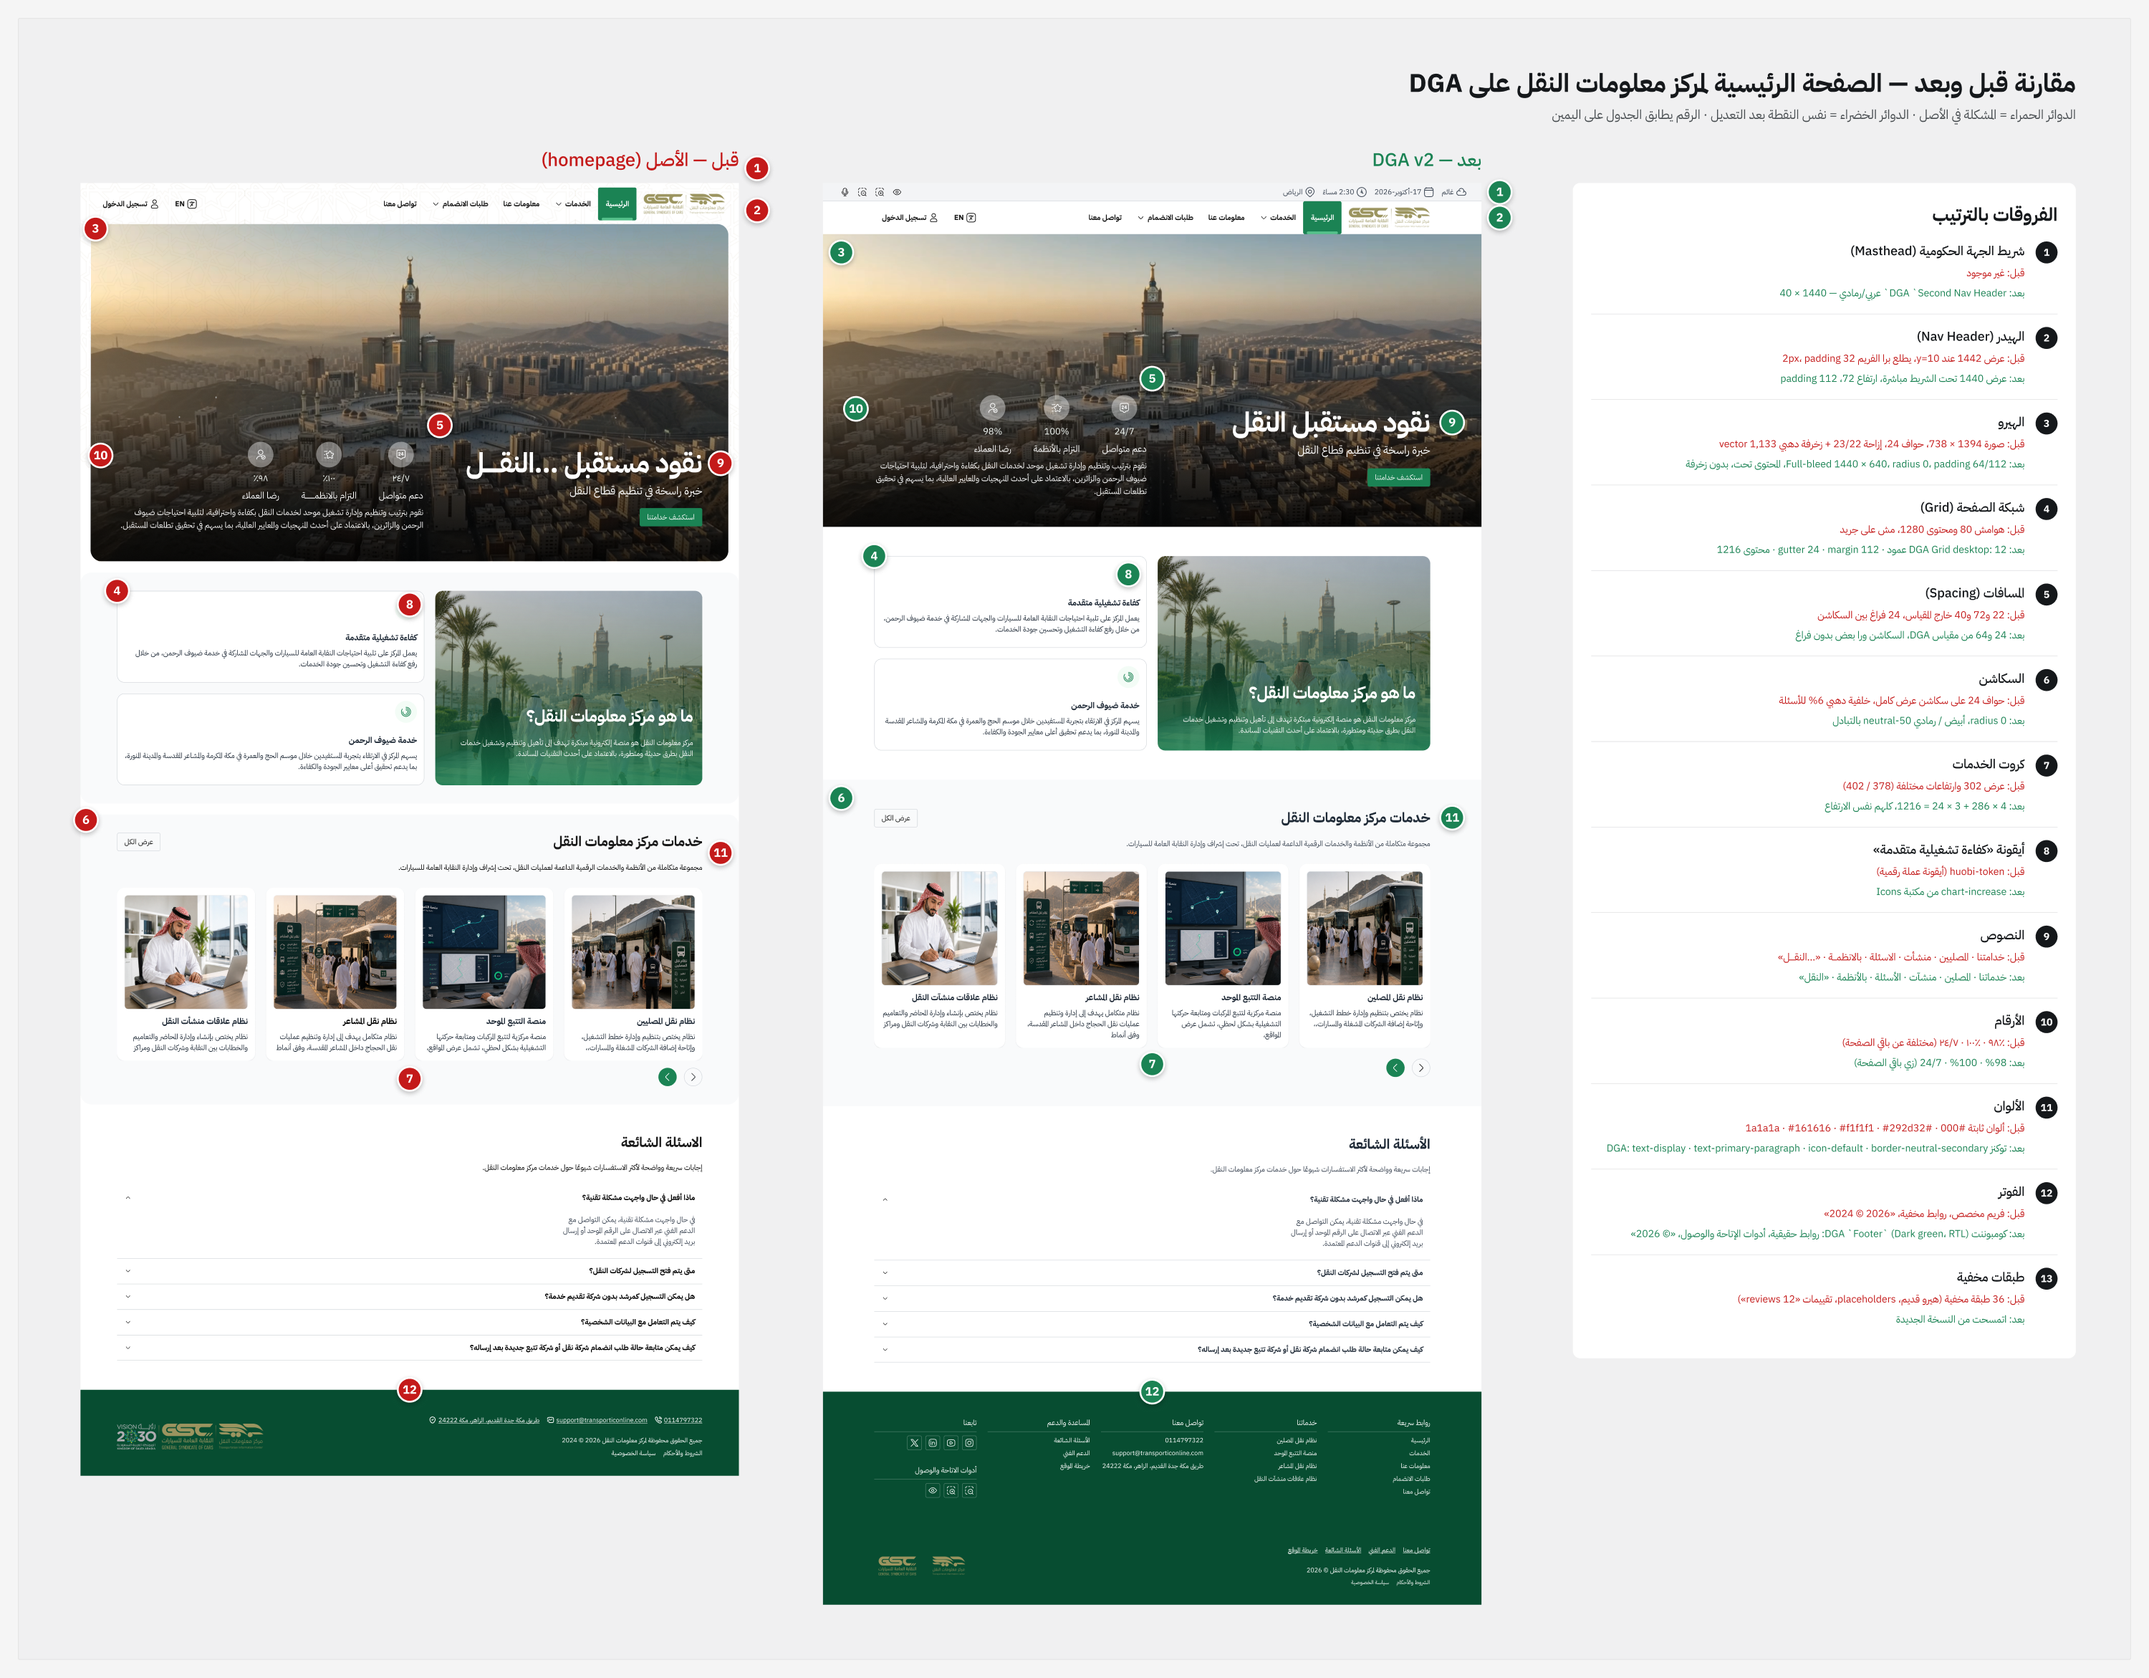
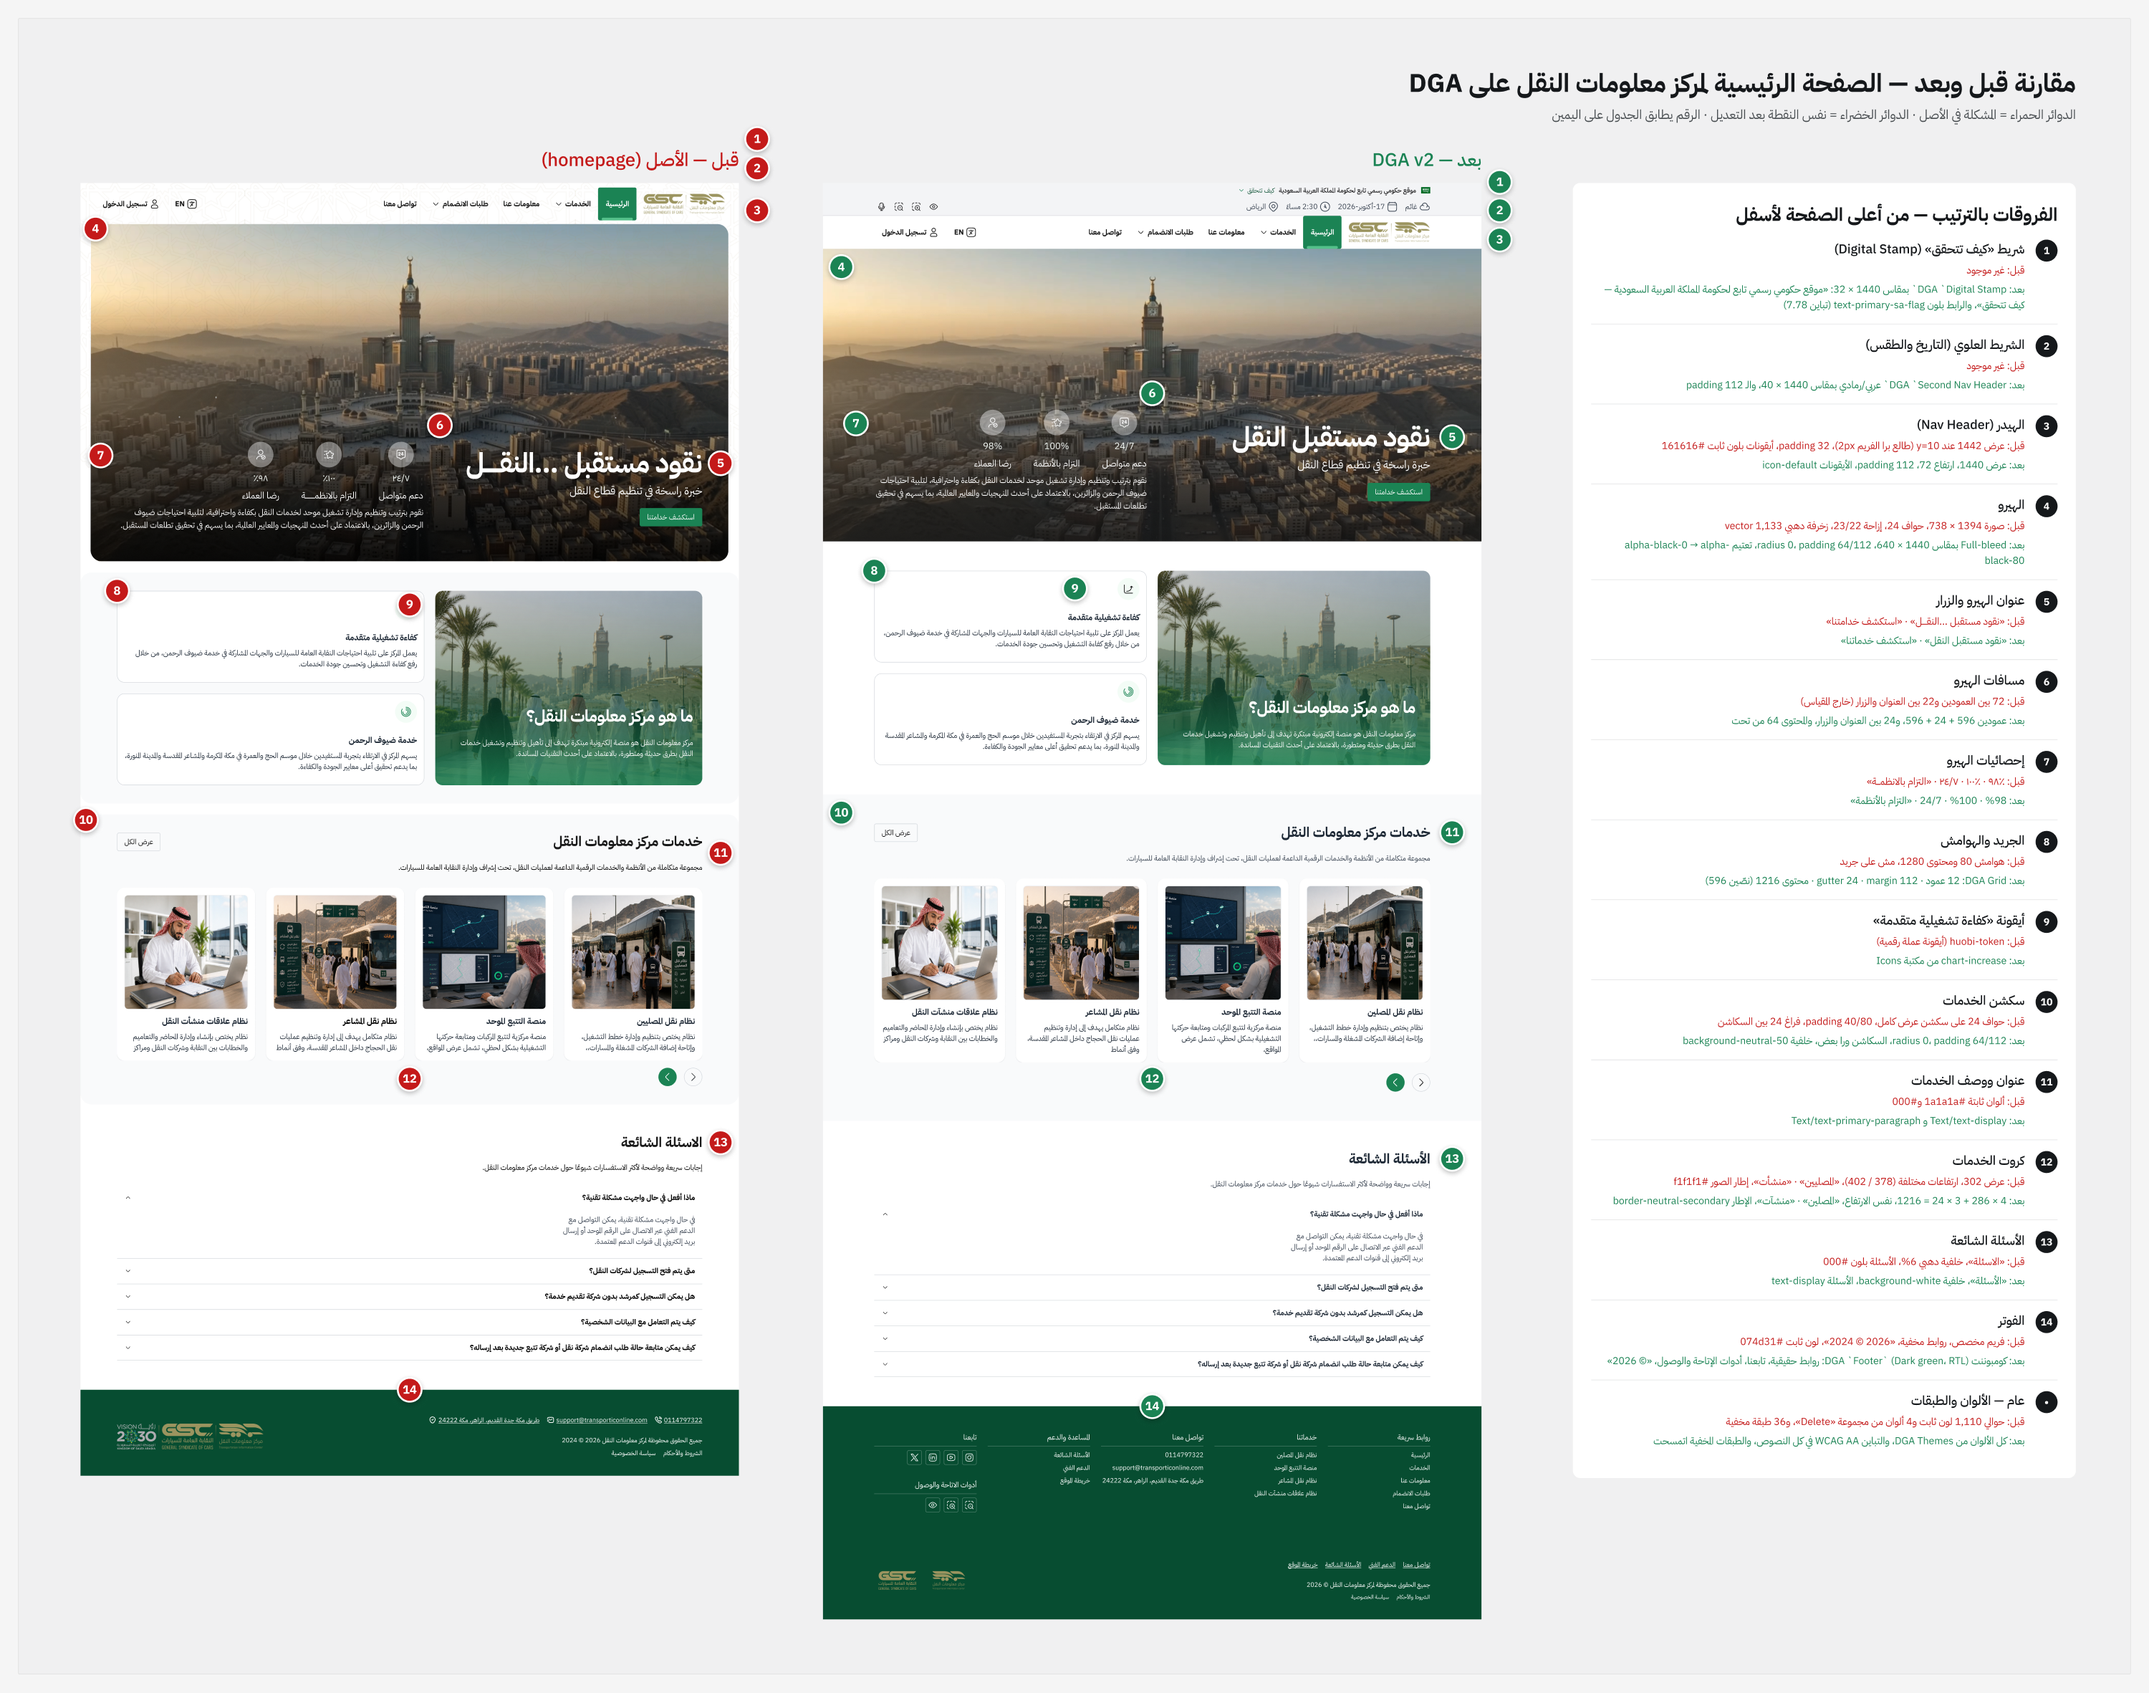
Record Digital Stamp, colour audit and page-ordered before/after board
Claude-Session: https://claude.ai/code/session_01CyctH4WFBszWbBNkvnfQuz

diff --git a/CLAUDE.md b/CLAUDE.md
@@ -194,6 +194,19 @@ All four libraries are published and reachable through `search_design_system`.
   Snapshots of the original and v2 (after-snapshot `18:1743`, refresh it if v2 changes), 12 numbered pins (red = before, green = after)
   and a 13-row table «الفروقات بالترتيب» (`16:2175`) with قبل/بعد per item. The user rearranged it (before on the left).
   Preview `previews/dga-homepage/3-before-after.png`.
+- **2026-10-17 later:** the user deleted the standalone frames `1:16870` (original) and `8:315` (v2) from the page. The board copies
+  are now the working frames: «قبل» `16:754`, «بعد» `18:1743` (main column `18:1744`). Work on `18:1743` directly.
+  - Added DGA **`Digital Stamp`** (set `3ea85c5e…`, RTL=Yes Opened=no, 1440×32, padding 112) above the Second Nav Header —
+    this is the «موقع حكومي رسمي تابع لحكومة المملكة العربية السعودية — كيف تتحقق» bar. Its link was 4.32:1 on #f3f4f6, so it
+    is overridden to `Text/text-primary-sa-flag` (#14573a, 7.78:1). Second Nav Header padding set to 112 too.
+  - Colour audit: every solid fill/stroke is bound to DGA «Themes» variables (only the flag inside Digital Stamp keeps its own
+    colours). Gradient stops bound via `boundVariables.color` on stops: hero overlay alpha-black-0 → alpha-black-80; About
+    card overlay alpha-black-0 → background-primary at layer opacity 0.86. Contrast measured from pixels: all hero text ≥ AA
+    (title 60px worst 4.48, needs 3; body ≥ 7.2).
+  - Board table «الفروقات بالترتيب — من أعلى الصفحة لأسفل» rebuilt in page order (14 numbered rows + one «عام» row);
+    pins renumbered to match (1 stamp, 2 top bar, 3 nav, 4 hero, 5 hero title, 6 hero spacing, 7 stats, 8 grid, 9 icon,
+    10 services section, 11 services title, 12 cards, 13 FAQ, 14 footer). Useful tokens: Link/link-primary-visited `4d2b021f…`,
+    text-primary-sa-flag `b3519ee6…`, alpha-black-0 `32ccf4a8…`, alpha-black-80 `ffd636ba…`, icon-default `e041e3f2…`.
   - Removed: gold pattern (1,133 vectors), #f8f7f5 dots, hidden pagination, hidden footer nav links, Swap Placeholders.
   - Copy: استكشف خدماتنا · نظام نقل المصلين · منشآت · الأسئلة الشائعة · التزام بالأنظمة · «نقود مستقبل النقل» (no kashida/ellipsis)
     · stats 98% / 100% / 24/7 · «جميع الحقوق محفوظة لمركز معلومات النقل © 2026». Crypto icon → `chart-increase`.
